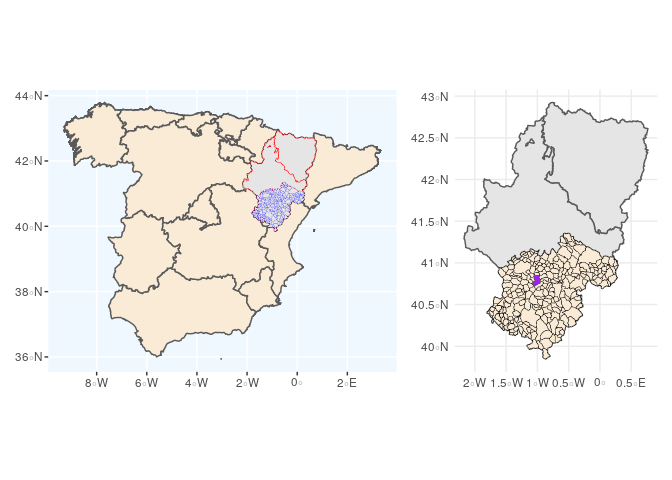
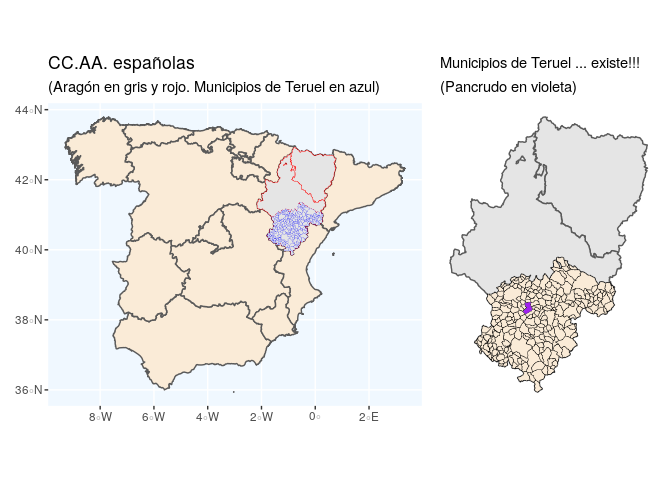
Rmd

diff --git a/README.md b/README.md
@@ -1,14 +1,32 @@
 
 <!-- README.md is generated from README.Rmd. Please edit that file -->
 
-# LAU2boundaries4spain <img src="hex-sticker.png" align="right" />
+# LAU2boundaries4spain <img src="hex-sticker.png" align="right" width="200" height="225" />
 
-El objetivo de este repositorio es ofrecer los contornos de los términos
-municipales españoles ajustados a los municipios existentes a 1 de enero
-de cada año desde 2002, de forma que cuadren exactamente con el Padrón
-de dicho año. Los contornos a fecha de 1 de enero de 2002 son
-consistentes con los existentes en el censo de 2001, con fecha de
-referencia 1 de noviembre de dicho año.
+El objetivo de este repo es facilitar la realización de mapas a nivel
+municipal para España. Para ello se ofrecen las geometrías o contornos
+municipales españoles para los años 2002 a 2020. ¿Es necesaria esta
+información? Evidentemente pensamos que sí. En España el encargado de
+ofrecer está información es el [Instituto Geográfico
+Nacional](http://www.ign.es/web/ign/portal) (IGN), **PERO** el IGN no
+guarda un registro históricos de las lineas límites municipales; solo
+ofrece la información más actual. Por lo tanto, si se quiere representar
+gráficamente, por ejemplo la población municipal en el año 2010, los
+contornos ofrecidos por el IGN no cuadrarían con la información
+estadistica del INE referida a 2010. La razón es que la relación de
+municipios puede cambiar con el tiempo; por ejemplo, [en el año 2018 se
+crearon en España 7 nuevos
+municipios](https://www.ine.es/daco/daco42/codmun/codmun19/19codmunmod.htm)
+entre ellos El Palmar de Troya, que surge como una segregación de
+Utrera.
+
+Como el objetivo último de este repositorio es facilitar la
+representación gráfica de información estadística a nivel municipal, se
+facilitan los contornos de los términos municipales españoles ajustados
+a los municipios existentes a 1 de enero de cada año desde 2002, de
+forma que cuadren exactamente con el Padrón de dicho año. Los contornos
+a fecha de 1 de enero de 2002 son consistentes con los existentes en el
+censo de 2001, con fecha de referencia 1 de noviembre de dicho año.
 
 Creemos que dicha base de datos es útil por varias razones. El
 [Instituto Geográfico Nacional](http://www.ign.es/web/ign/portal) (IGN)
@@ -94,16 +112,9 @@ plot(Provincias, max.plot = 1)
 ``` r
 library(LAU2boundaries4spain)
 library(tidyverse)
-#> ── Attaching packages ────────────────────────────────────────────────────────────────────────────────────────────────────────────────── tidyverse 1.3.0 ──
-#> ✓ ggplot2 3.2.1     ✓ purrr   0.3.3
-#> ✓ tibble  2.1.3     ✓ dplyr   0.8.4
-#> ✓ tidyr   1.0.2     ✓ stringr 1.4.0
-#> ✓ readr   1.3.1     ✓ forcats 0.4.0
-#> ── Conflicts ───────────────────────────────────────────────────────────────────────────────────────────────────────────────────── tidyverse_conflicts() ──
-#> x dplyr::filter() masks stats::filter()
-#> x dplyr::lag()    masks stats::lag()
 library(sf)
 library(patchwork)
+  
 CCAA_peninsular <- CCAA %>% filter(!NombreCCAA %in% c("Canarias", "Illes Balears", "Ciudades Autónomas de Ceuta y Melilla"))
 Prov_aragon <- Provincias %>% filter(NombreCCAA == "Aragón")
 muni_teruel_2017 <- municipios_2017 %>% filter(NombreProv == "Teruel")
@@ -111,11 +122,17 @@ Pancrudo <- muni_teruel_2017 %>% filter(NombreMuni == "Pancrudo")
 
 p1 <- ggplot(data = CCAA_peninsular) + geom_sf(fill = "antiquewhite") + 
             geom_sf(data = Prov_aragon, color = "red", size = 0.15) +
-            geom_sf(data = muni_teruel_2017, color = "blue", size = 0.05) + theme(panel.background = element_rect(fill = "aliceblue"))
+            geom_sf(data = muni_teruel_2017, color = "blue", size = 0.05) + theme(panel.background = element_rect(fill = "aliceblue")) +
+            labs(title = "CC.AA. españolas", subtitle = "(Aragón en gris y rojo. Municipios de Teruel en azul)") 
 
 p2 <- ggplot(data = Prov_aragon) + geom_sf() + 
       geom_sf(data = muni_teruel_2017, color = "black", size = 0.15, fill = "antiquewhite") + 
-      geom_sf(data = Pancrudo, fill = "purple", size = 0.1) + theme_minimal() 
+      geom_sf(data = Pancrudo, fill = "purple", size = 0.1) + theme_minimal() +
+      labs(title = "Municipios de Teruel ... existe!!!", subtitle = "(Pancrudo en violeta)") +
+      theme(axis.text = element_blank()) +
+      theme(panel.grid.major = element_blank()) + 
+      theme(plot.title = element_text(size = 11))
+
 p1 + p2
 ```
 
@@ -142,71 +159,3 @@ p1 + p2
 ```
 
 <img src="man/figures/README-unnamed-chunk-4-1.png" width="100%" />
-
-``` r
-library(tidyverse)
-library(sf)
-Provincias <- Provincias
-#provincias_df <- Provincias %>% st_set_geometry(NULL) #- le quitas la geometria (se ve mejor)
-canarias <- Provincias %>% filter(INECodProv %in% c(35,38))
-peninsula <- Provincias %>% filter( !(INECodProv %in% c(35, 38)) )
-my_shift <- st_bbox(peninsula)[c(1,2)]- (st_bbox(canarias)[c(1,2)]) + c(9.5,0.5)
-canarias$geometry <- canarias$geometry + my_shift
-st_crs(canarias)  <- st_crs(peninsula)
-provincias_a <- rbind(peninsula, canarias)  
-plot(provincias_a, max.plot = 1)
-```
-
-Para cargar y dibujar los lindes municipales de 2018:
-
-``` r
-library(tidyverse)
-library(sf)
-library(LAU2boundaries4spain)
-municipios_2018 <- municipios_2018
-plot(municipios_2018, max.plot = 1)
-```
-
-Si queremos generar dibujar los lindes provinciales a partir de las
-geometrías municipales de 2016 (más información
-[aquí](https://github.com/r-spatial/sf/issues/290)):
-
-``` r
-library(tidyverse)
-library(sf)
-library(LAU2boundaries4spain)
-Provincias_2016 <- municipios_2016 %>%  group_by(INECodProv) %>% summarise()
-plot(Provincias_2016)
-```
-
-Si queremos fusionar los datos de población, o cualquier otra variable
-municipal, con el fichero de lindes:
-
-``` r
-library(tidyverse)
-library(sf)
-library(LAU2boundaries4spain)
-library(spanishRpoblacion)
-pob <- INE_padron_muni_96_17  #- datos de poblacion del Padron 
-pob_2016 <- pob %>% filter(anyo == 2016) %>%    # en 2016 habían 8.125 municipios
-            select(INECodMuni, Pob_T, Pob_H, Pob_M)  
-lindes_2016 <- municipios_2016 #- 8.125 municipios + 84 condominios
-fusion_2016 <- full_join(lindes_2016, pob_2016)   
-fusion_2016_df <- fusion_2016 %>% st_set_geometry(NULL) #- le quitas la geometria para verlo mejor
-```
-
-El sistema de referencia geodésico de las diferentes capas del paquete
-es el estándar europeo, ETRS89 en coordenadas geográficas, es decir sin
-proyección, y con Canarias en la misma proyección que la Peninsula y
-Baleares. Si queremos proyectar la información, por ejemplo a *Lambert
-Azimutal Equal Area* (LAEA), hacemos:
-
-``` r
-# EPSG Projection 3035 - ETRS89 / ETRS-LAEA 
-# Proj4js.defs["EPSG:3035"] = "+proj=laea +lat_0=52 +lon_0=10 +x_0=4321000 +y_0=3210000 +ellps=GRS80 +units=m +no_defs"
-library(tidyverse)
-library(sf)
-library(LAU2boundaries4spain)
-Provincias_proj <- st_transform(Provincias, crs = 3035) 
-plot(Provincias_proj, max.plot = 1)
-```
